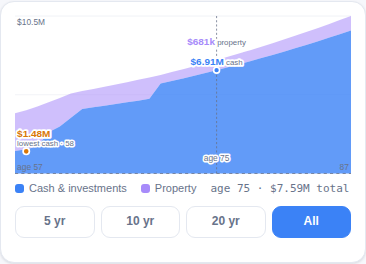
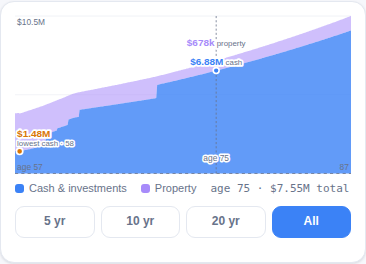
Draw the chart monthly and show budgets against Gastos actuals
Two defects reported as "the minimum is printed where the curve is not lowest"
and "Carhué says $130,000 to be spent, but most of it is already spent".

1. The chart drew yearly rows while minLiq/minAge are computed monthly, so the
   trough marker could not sit on the line: the low happens intra-year. The
   series is now monthly, with the month carried as a twelfth of the age, and
   the marker uses the engine's simMinMo. The dot now lands exactly on the cash
   curve. Points are matched by proximity rather than equality since ages are
   fractional.

   Net worth at end now reads from the same last monthly record the curve ends
   on; taking it from the yearly roll-up made the tile and the right-hand end of
   the chart disagree.

2. A project budget was printed whole, so a mostly-finished obra read as money
   still to come. Each cost with a gastosCategory now shows spent-against-budget
   with a bar and what is left, pulled from the project-actuals function the
   desktop already uses — Carhué reads "$102k of $130k spent · $28k left". Over
   budget is called out explicitly. Actuals are fetched after the first render,
   so a slow or failed call cannot delay the page.

Claude-Session: https://claude.ai/code/session_01WhJcZ9Se9VHsj4TqAnspTi

diff --git a/mobile.html b/mobile.html
@@ -178,6 +178,11 @@
   .ledrow.tot span:last-child{color:var(--iliq)}
   .ledsep{height:1px;background:var(--line);margin:6px 0}
   .pos{color:var(--good)} .neg{color:var(--bad)}
+  .budg{margin:6px 0 2px;font-size:11px;color:var(--dim)}
+  .budg .bar{height:4px;border-radius:99px;background:var(--line);overflow:hidden;margin-bottom:4px}
+  .budg .bar i{display:block;height:100%;background:var(--liq)}
+  .budg b{color:var(--ink)}
+  .budg .ovr{color:var(--bad);font-weight:700}
   /* sync chip — the header is the only place a save state is always visible */
   .sync{font-size:11px;padding:2px 8px;border-radius:99px;border:1px solid var(--line);
         color:var(--dim);white-space:nowrap;flex:none}
@@ -431,9 +436,21 @@
           .filter(i => i.amount !== 0)
           .sort((a, b) => Math.abs(b.amount) - Math.abs(a.amount)),
       }));
+      // MONTHLY series. Drawing yearly rows put the lowest-cash dot off the line, because
+      // the trough is intra-year: the marker and the curve could not agree by
+      // construction. Age carries the month as a fraction so x positions stay honest.
       return JSON.stringify({
-        series: d.map(r => ({ age: r.age, liq: r.liq, iliq: r.iliq })),
-        finalNW: last.liq + last.iliq, minLiq: d.simMinLiq, minAge: d.simMinAge,
+        series: (d.monthly || []).map(m => ({
+          age: m.age + ((m.mo || 1) - 1) / 12, yr: m.age, mo: m.mo, liq: m.liq, iliq: m.iliq,
+        })),
+        // Read the end from the SAME record the chart's last point comes from. Taking it
+        // from the yearly roll-up while drawing monthly made the tile and the right-hand
+        // end of the curve disagree by ~$0.8M.
+        finalNW: (() => {
+          const lm = (d.monthly || [])[(d.monthly || []).length - 1];
+          return lm ? lm.liq + lm.iliq : last.liq + last.iliq;
+        })(),
+        minLiq: d.simMinLiq, minAge: d.simMinAge, minMo: d.simMinMo,
         ruin, mc, startAge: S.startAge, endAge: S.endAge, ledger,
       });
     })()`);
@@ -913,6 +930,25 @@
 
   const MONTHS = ['Jan','Feb','Mar','Apr','May','Jun','Jul','Aug','Sep','Oct','Nov','Dec'];
 
+  // ── Gastos actuals: what a project budget has ALREADY consumed ────────────
+  // A budget shown whole reads as money still to spend. Carhué's $130k is mostly gone —
+  // Gastos has the real figure, keyed by the expense's gastosCategory.
+  let actuals = null;
+  async function loadActuals() {
+    if (!SB) return;
+    try {
+      const r = await fetch(SB.url + '/functions/v1/project-actuals',
+                            { headers: { Authorization: 'Bearer ' + SB.key } });
+      if (!r.ok) throw new Error('HTTP ' + r.status);
+      actuals = await r.json();
+    } catch (e) { console.warn('project actuals unavailable', e); }
+  }
+  function spentOn(cat) {
+    const k = (cat || '').trim().toLowerCase();
+    if (!actuals || !k || !actuals[k] || !actuals[k].byMonth) return null;
+    return Object.values(actuals[k].byMonth).reduce((s, v) => s + (+v || 0), 0);
+  }
+
   // ── project costs / expenses ──
   // Every expense in the scenario, including the obras and one-off investments that
   // previously only existed on the desktop app.
@@ -966,12 +1002,24 @@
                MONTHS.map((m, ix) => `<option value="${ix + 1}"${(+(e.atMonth || 1)) === ix + 1 ? ' selected' : ''}>${m}</option>`).join('')
              }</select></label>
              <label><span class="fl">Payments</span><input type="number" data-e="${esc(String(e.id))}" data-ef="installN" value="${e.installN || 1}" min="1" max="360"></label>`;
+      // Budget vs what Gastos says is already spent. Without this the whole budget reads
+      // as future money, which is how a mostly-finished obra looks like a looming cost.
+      const budget = +(e.budget || e.installTotal || e.amount || 0);
+      const spent = spentOn(e.gastosCategory);
+      const pct = spent != null && budget > 0 ? Math.min(100, Math.round(spent / budget * 100)) : null;
+      const budgLine = pct == null ? '' :
+        `<div class="budg">
+           <div class="bar"><i style="width:${pct}%${pct >= 100 ? ';background:var(--bad)' : ''}"></i></div>
+           <span>${fmt(spent)} of ${fmt(budget)} spent · <b>${fmt(Math.max(budget - spent, 0))} left</b>${
+             spent > budget ? ` <span class="ovr">over by ${fmt(spent - budget)}</span>` : ''}</span>
+         </div>`;
       return `<div class="ex${on ? '' : ' off'}${e._past ? ' past' : ''}">
         <div class="top">
           <span class="nm">${esc(e.name || 'Cost')}<small>${when}</small></span>
           <input type="checkbox" data-et="${esc(String(e.id))}"${on ? ' checked' : ''} aria-label="Include ${esc(e.name || 'cost')}">
           <button type="button" class="del" data-erm="${esc(String(e.id))}" aria-label="Remove ${esc(e.name || 'cost')}">✕</button>
         </div>
+        ${budgLine}
         <div class="fg">
           <label class="wide"><span class="fl">Name</span><input type="text" data-e="${esc(String(e.id))}" data-ef="name" value="${esc(e.name || '')}"></label>
           <label${e._recur ? '' : ' class="wide"'}><span class="fl">Amount</span>
@@ -1159,6 +1207,17 @@
     return win.length >= 2 ? win : series;        // never render a degenerate window
   }
 
+  // Ages are fractional now (month carried as a twelfth), so points are matched by
+  // proximity rather than equality.
+  function nearest(series, age) {
+    if (!series || !series.length || age == null) return null;
+    let best = series[0];
+    for (const d of series) if (Math.abs(d.age - age) < Math.abs(best.age - age)) best = d;
+    return best;
+  }
+  const inWindow = (series, age) =>
+    series.length && age >= series[0].age - 0.5 && age <= series[series.length - 1].age + 0.5;
+
   // Age the crosshair is pinned to. Stored as an AGE rather than an index so it survives
   // a re-simulation or a zoom change — both rebuild the series under it.
   let markAge = null;
@@ -1202,8 +1261,11 @@
     // holds. Drawn on the LIQUID curve (not the total) because that is what runs out, and
     // always, independent of the finger crosshair.
     let lowMark = '';
-    const lowAge = cur && cur.minAge != null ? cur.minAge : null;
-    const ld = lowAge == null ? null : series.find(d => d.age === lowAge);
+    // The exact month of the trough, so the dot lands on the drawn line rather than
+    // floating under it.
+    const lowAge = cur && cur.minAge != null
+      ? cur.minAge + ((cur.minMo || 1) - 1) / 12 : null;
+    const ld = lowAge == null || !inWindow(series, lowAge) ? null : nearest(series, lowAge);
     // Out of the zoom window: still print it, pinned to the edge it lies beyond with an
     // arrow and its real age. Hiding it contradicted "show it regardless", and clamping
     // it onto the curve would claim the trough happens at a year it does not.
@@ -1217,7 +1279,7 @@
         ` fill="${col}" paint-order="stroke" stroke="var(--card)" stroke-width="3.5" stroke-linejoin="round">${fmt(cur.minLiq)}</text>` +
         `<text x="${past ? W - 6 : 6}" y="${H - 16}" font-size="7.5" text-anchor="${past ? 'end' : 'start'}"` +
         ` fill="var(--dim)" paint-order="stroke" stroke="var(--card)" stroke-width="3" stroke-linejoin="round">` +
-        `${past ? '' : '◂ '}lowest cash · ${lowAge}${past ? ' ▸' : ''}</text>`;
+        `${past ? '' : '◂ '}lowest cash · ${Math.floor(lowAge)}${past ? ' ▸' : ''}</text>`;
     }
     if (ld) {
       // ⚠ minLiq/minAge come from the MONTHLY series; the yearly row at that age is a
@@ -1236,11 +1298,11 @@
         `<text x="${tx.toFixed(1)}" y="${ty.toFixed(1)}" font-size="9.5" font-weight="700" text-anchor="${anchor}"` +
         ` fill="${col}" paint-order="stroke" stroke="var(--card)" stroke-width="3.5" stroke-linejoin="round">${fmt(low)}</text>` +
         `<text x="${tx.toFixed(1)}" y="${(ty + 9).toFixed(1)}" font-size="7.5" text-anchor="${anchor}"` +
-        ` fill="var(--dim)" paint-order="stroke" stroke="var(--card)" stroke-width="3" stroke-linejoin="round">lowest cash · ${ld.age}</text>`;
+        ` fill="var(--dim)" paint-order="stroke" stroke="var(--card)" stroke-width="3" stroke-linejoin="round">lowest cash · ${Math.floor(ld.age)}</text>`;
     }
 
     let cross = '';
-    const md = markAge == null ? null : series.find(d => d.age === markAge);
+    const md = markAge == null || !inWindow(series, markAge) ? null : nearest(series, markAge);
     if (md) {
       const cx = x(md.age);
       // ⚠ Report the REAL values. Clamping with Math.max(...,0) is right for stacking the
@@ -1268,7 +1330,7 @@
         lbl(yProp, prop, 'var(--iliq)', 'property') +
         lbl(yCashLbl, cash, 'var(--liq)', 'cash') +
         `<text x="${tx.toFixed(1)}" y="${(H - 12).toFixed(1)}" font-size="8" text-anchor="${anchor}"` +
-        ` fill="var(--dim)" paint-order="stroke" stroke="var(--card)" stroke-width="3" stroke-linejoin="round">age ${md.age}</text>`;
+        ` fill="var(--dim)" paint-order="stroke" stroke="var(--card)" stroke-width="3" stroke-linejoin="round">age ${Math.floor(md.age)}</text>`;
     }
     $('chart').innerHTML =
       gridY +
@@ -1276,8 +1338,8 @@
       `<path d="${area(d => d.liq, () => 0)}" fill="var(--liq)" opacity=".8"/>` +
       `<line x1="0" x2="${W}" y1="${zeroY}" y2="${zeroY}" stroke="var(--dim)" stroke-width=".75" stroke-dasharray="3 3"/>` +
       `<text x="2" y="${Math.max(y(hi) + 9, 9).toFixed(1)}" font-size="8" fill="var(--dim)">${fmt(hi)}</text>` +
-      `<text x="2" y="${(H - 3).toFixed(1)}" font-size="8" fill="var(--dim)">age ${xs[0]}</text>` +
-      `<text x="${W - 2}" y="${(H - 3).toFixed(1)}" font-size="8" fill="var(--dim)" text-anchor="end">${xs[xs.length-1]}</text>` +
+      `<text x="2" y="${(H - 3).toFixed(1)}" font-size="8" fill="var(--dim)">age ${Math.floor(xs[0])}</text>` +
+      `<text x="${W - 2}" y="${(H - 3).toFixed(1)}" font-size="8" fill="var(--dim)" text-anchor="end">${Math.floor(xs[xs.length-1])}</text>` +
       lowMark + cross;   // crosshair last so a tapped point sits above the fixed marker
   }
 
@@ -1296,9 +1358,10 @@
   }
 
   function showMark() {
-    const d = cur && visible(cur.series).find(p => p.age === markAge);
+    const s = cur && visible(cur.series);
+    const d = s && inWindow(s, markAge) ? nearest(s, markAge) : null;
     $('hover').textContent = d
-      ? `age ${d.age} · ${fmt(d.liq + d.iliq)} total`
+      ? `age ${Math.floor(d.age)} · ${fmt(d.liq + d.iliq)} total`
       : '';
   }
 
@@ -1428,6 +1491,9 @@
         : 'Edits save automatically and sync with the web app.');
     applySaved();
     booted = true;                       // from here on, edits persist
+    // Actuals are decoration on top of a working page, so they are fetched after the
+    // first render and only redraw the list they affect.
+    loadActuals().then(() => { if (actuals) renderExpenses(); });
     if (readOnly) setSync('', 'preview', 'Not your saved plan — nothing is written');
     else if (!SB) setSync('', 'on device', 'Saved here — no cloud configured');
     else if ($('sync').textContent === 'loading…') setSync('ok', 'synced', 'Up to date with the web app');
